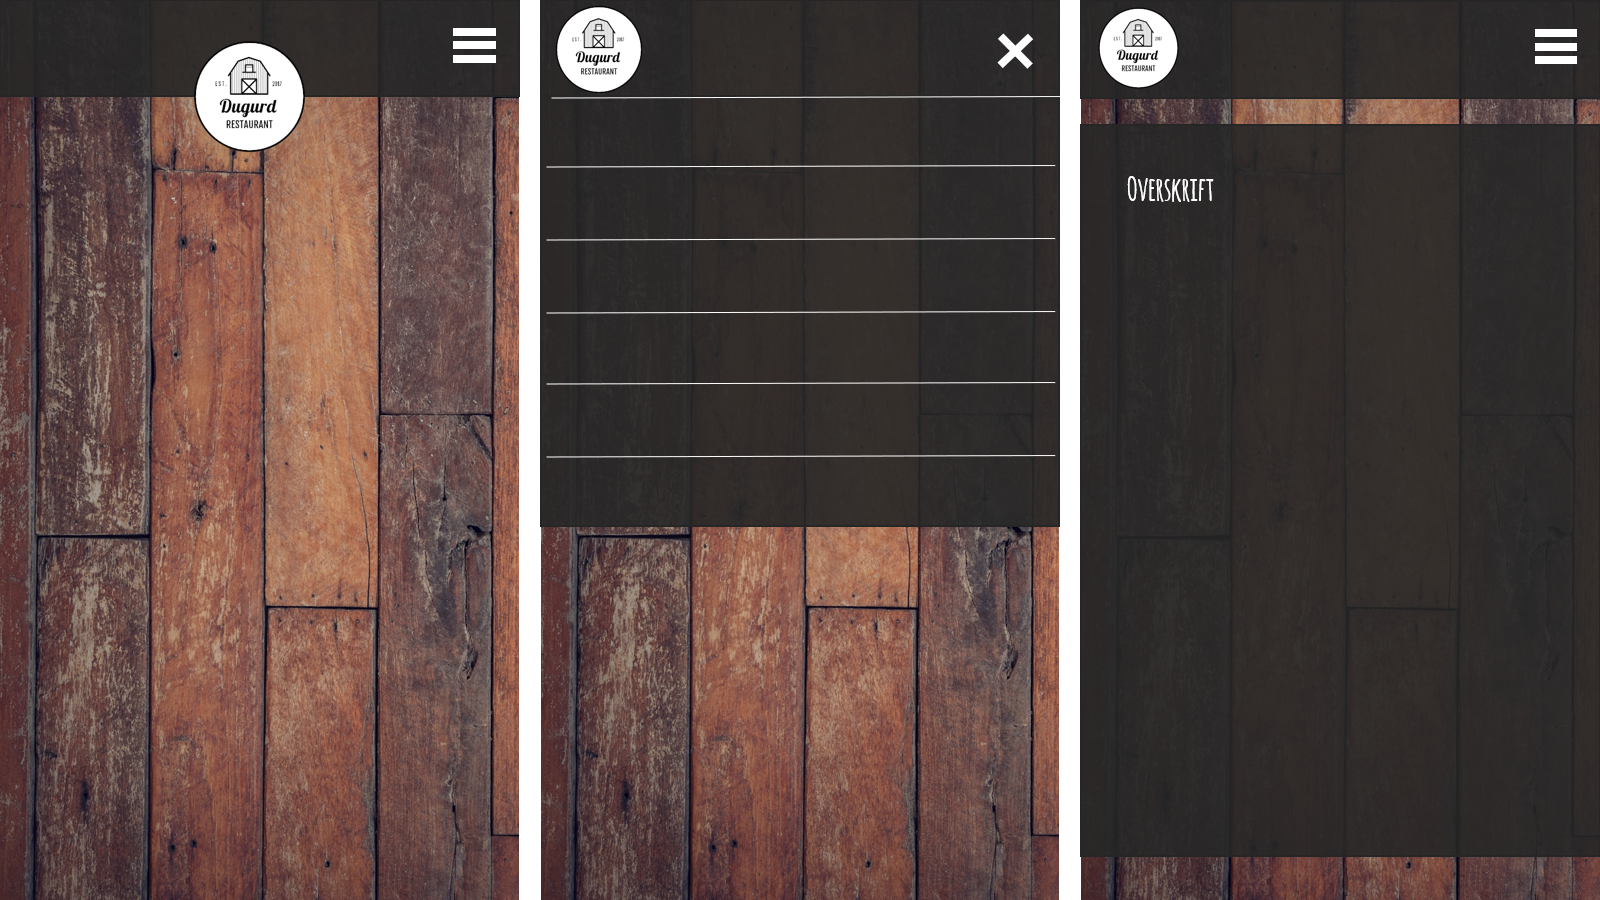
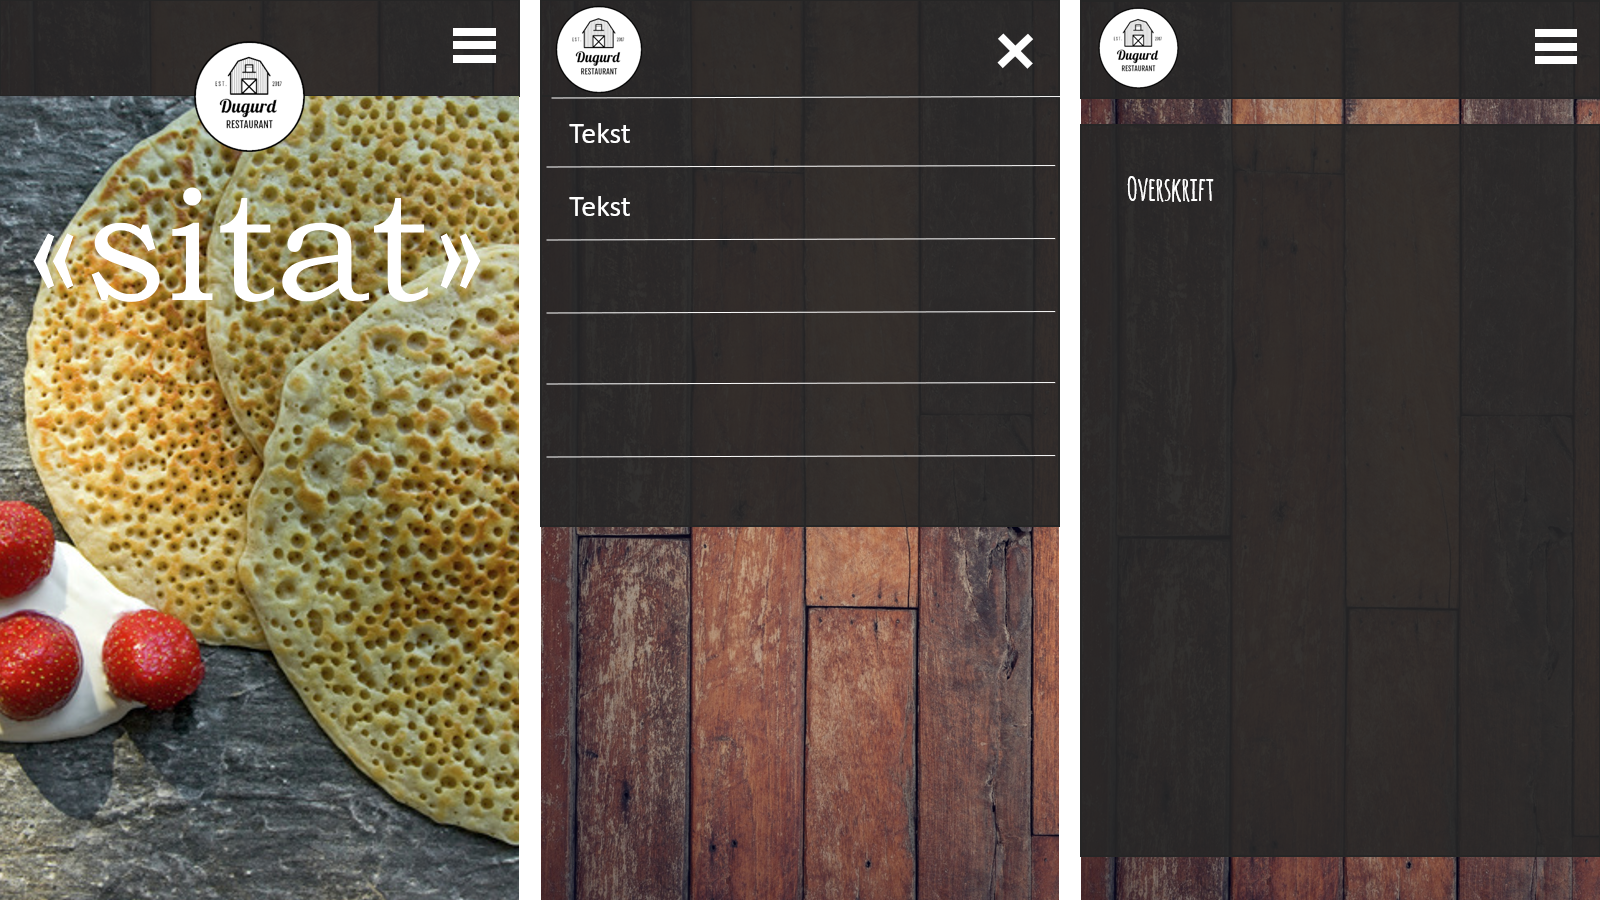
mobilversjon

Changed region(s): [[0.0, 0.0933, 0.4062, 1.0]]

diff --git a/documents/P2_design_6.html b/documents/P2_design_6.html
@@ -36,7 +36,7 @@
               være enkle å finne. Dette gjør vi ved å legge navbaren på toppen av nettsiden, da kan man enkelt navigere seg
               fra side til side. Logoen til restauranten ligger også i navbaren, for at man fort skal kunne se hvilken nettside
               man er på. Man skal også kunne trykke på logoen for å komme tilbake til forsiden. Nettsiden er utformet for PC-brukere,
-              men vi skal bruke responsive design for å gjøre brukeropplevelsen god også på mindre skjermer. Planen er også å lage en 
+              men vi skal bruke responsive design for å gjøre brukeropplevelsen god også på mindre skjermer. Planen er også å lage en
               egen mobilversjon. </p>
 
             <p> I overskrifter vil vi bruke fonten "Amatic", med "Verdana" som fallback.
@@ -109,6 +109,14 @@
             <img src="../documents/mockups/jobb1.png" alt="Mockup av Søk jobb siden" class="img">
             <img src="../documents/mockups/jobb2.png" alt="Mockup av Søk jobb siden" class="img">
             <img src="../documents/mockups/jobb3.png" alt="Mockup av Søk jobb siden" class="img">
+
+            <h2>Mobil</h2>
+            <p>For at nettsiden også skal være enkel å bruke på mindre skjermer, har vi laget en egen mobilversjon.
+              Som man ser av det første bildet vil dette være forsiden, dette vil bare bli en nedskalert versjon
+              av forsiden på PC-versjonen. Navbaren har vi nå flyttet til høyre hjørne som en dropdown meny. Når
+              man trykker på denne vil menyen komme fram og logoen bli dyttet til venstre hjørne. Bilde nummer tre
+              viser hvordan nettsiden vil se ut når du er inne på en av sidene.</p>
+            <img src="../documents/mockups/mobil.png" alt="Mocku av mobilversjonen" class="img">
         </div>
     </body>
 </html>
